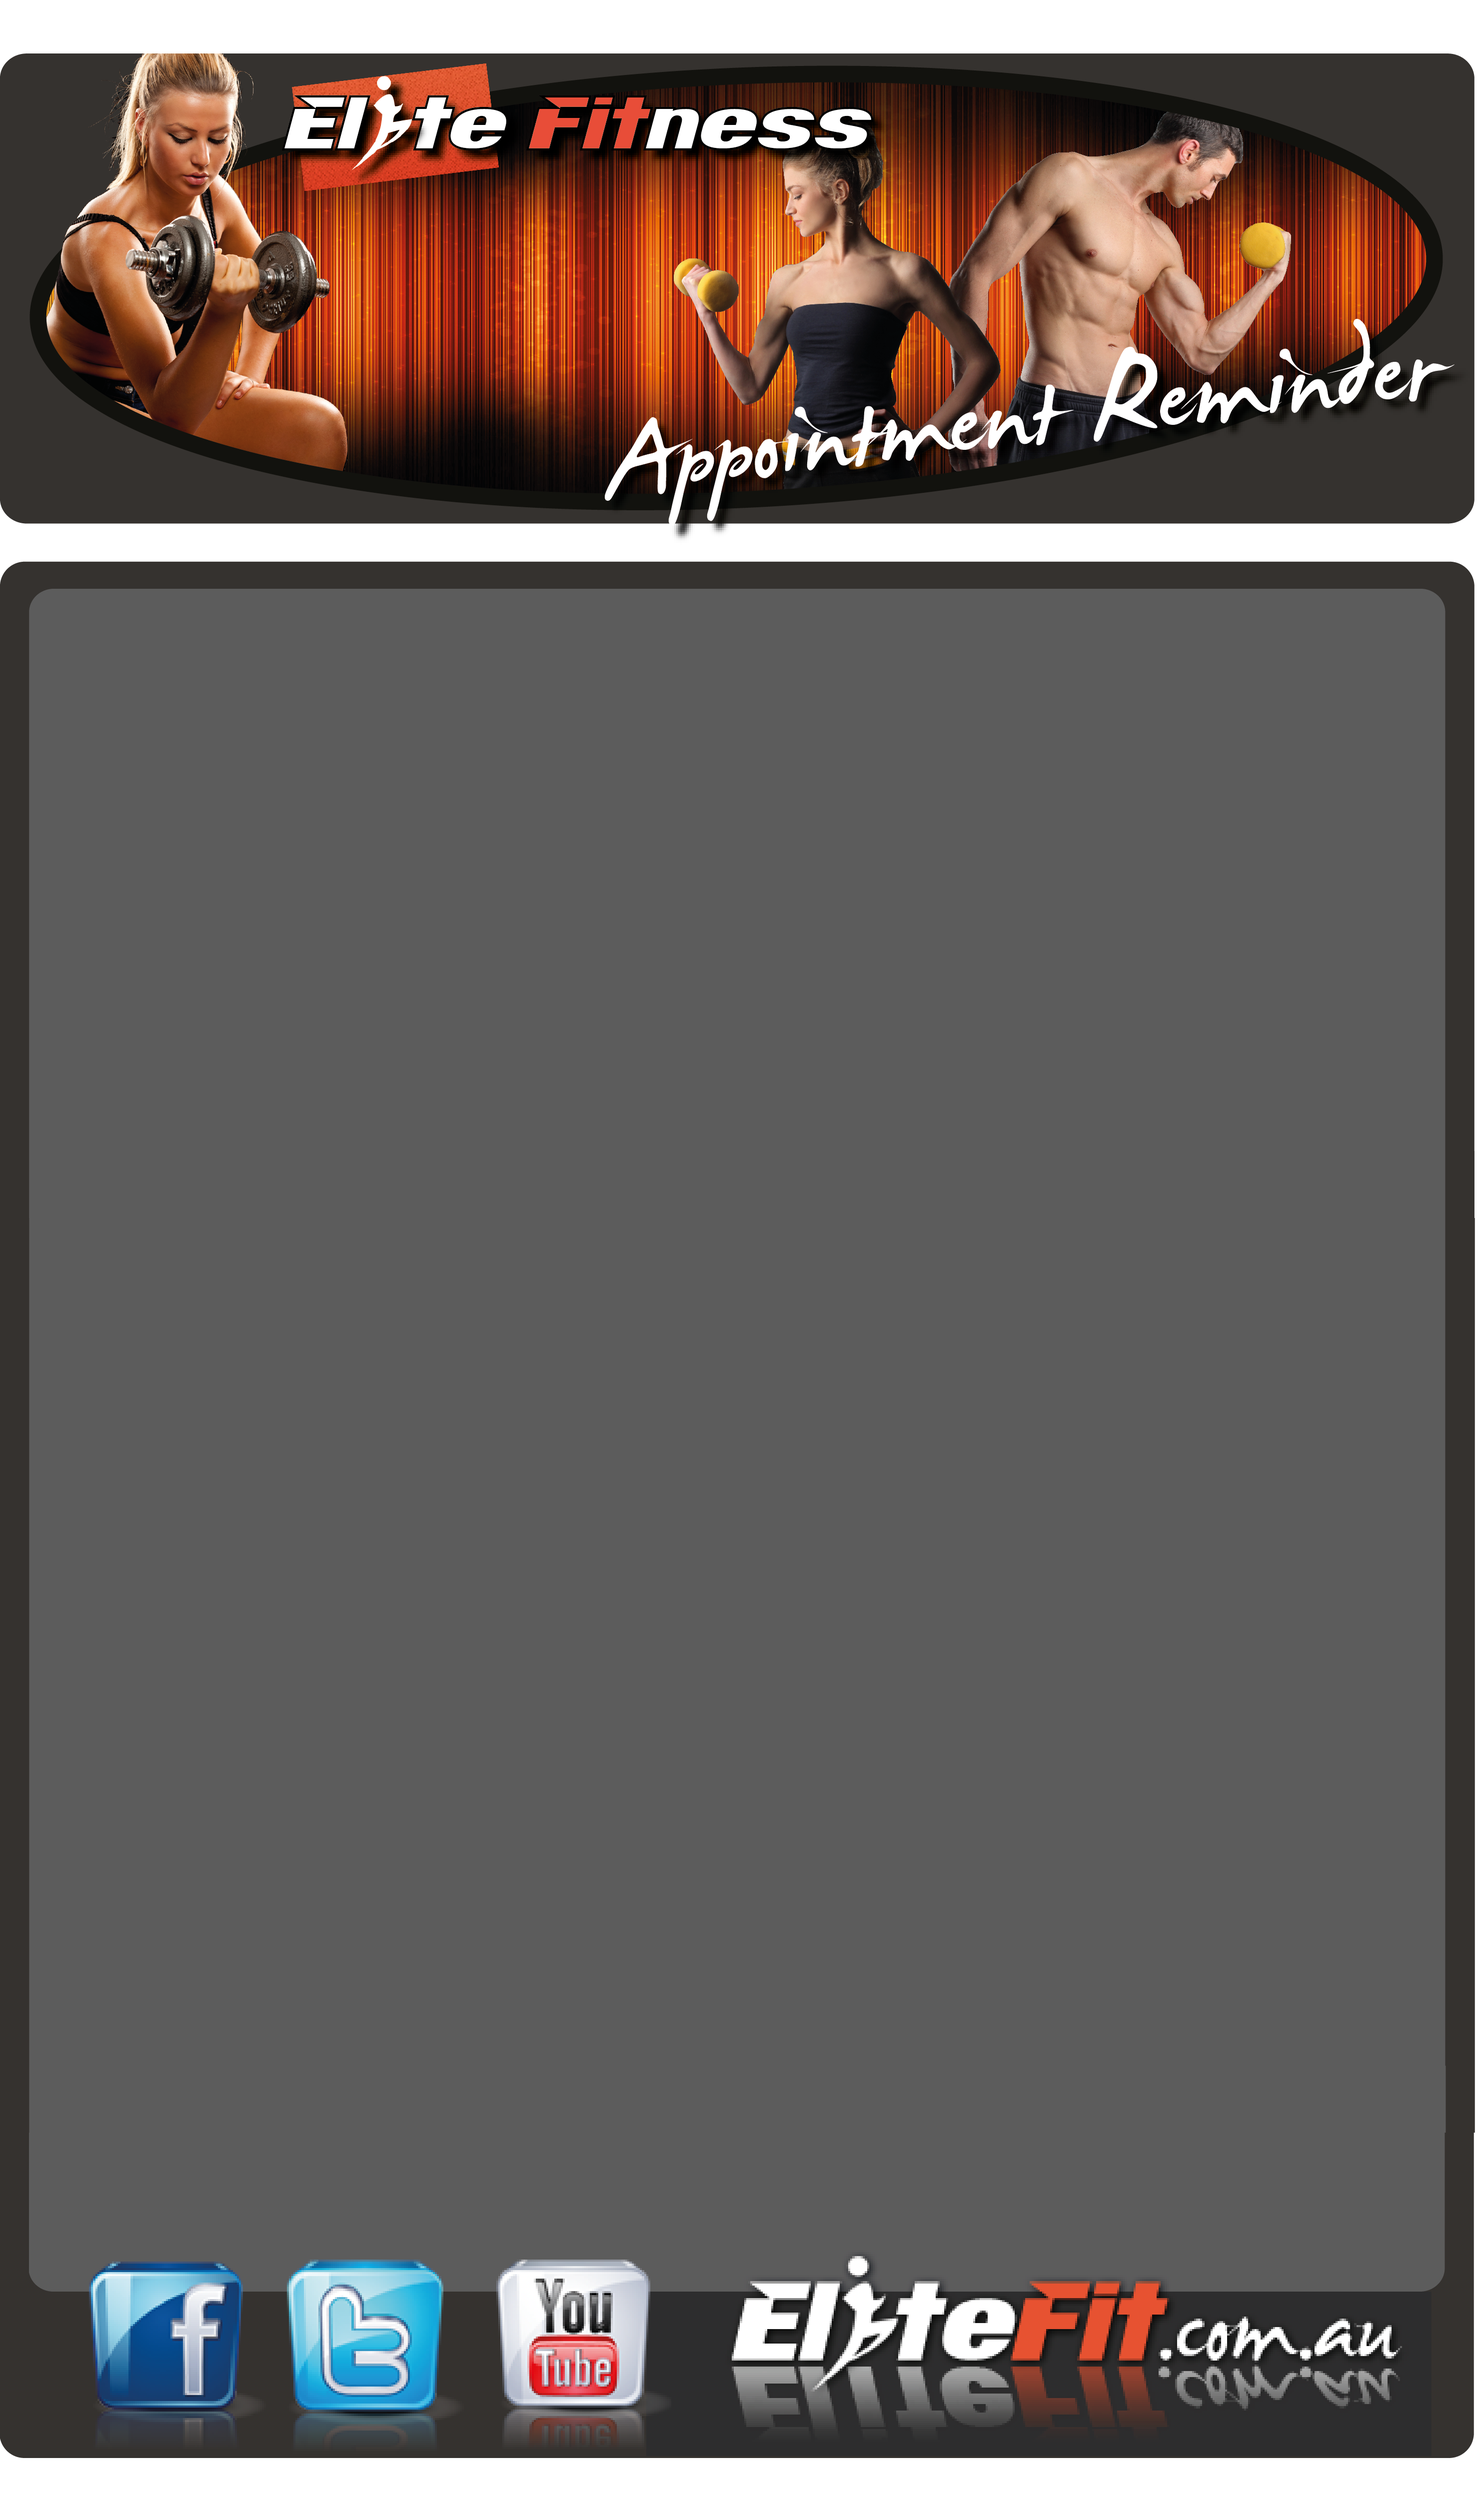
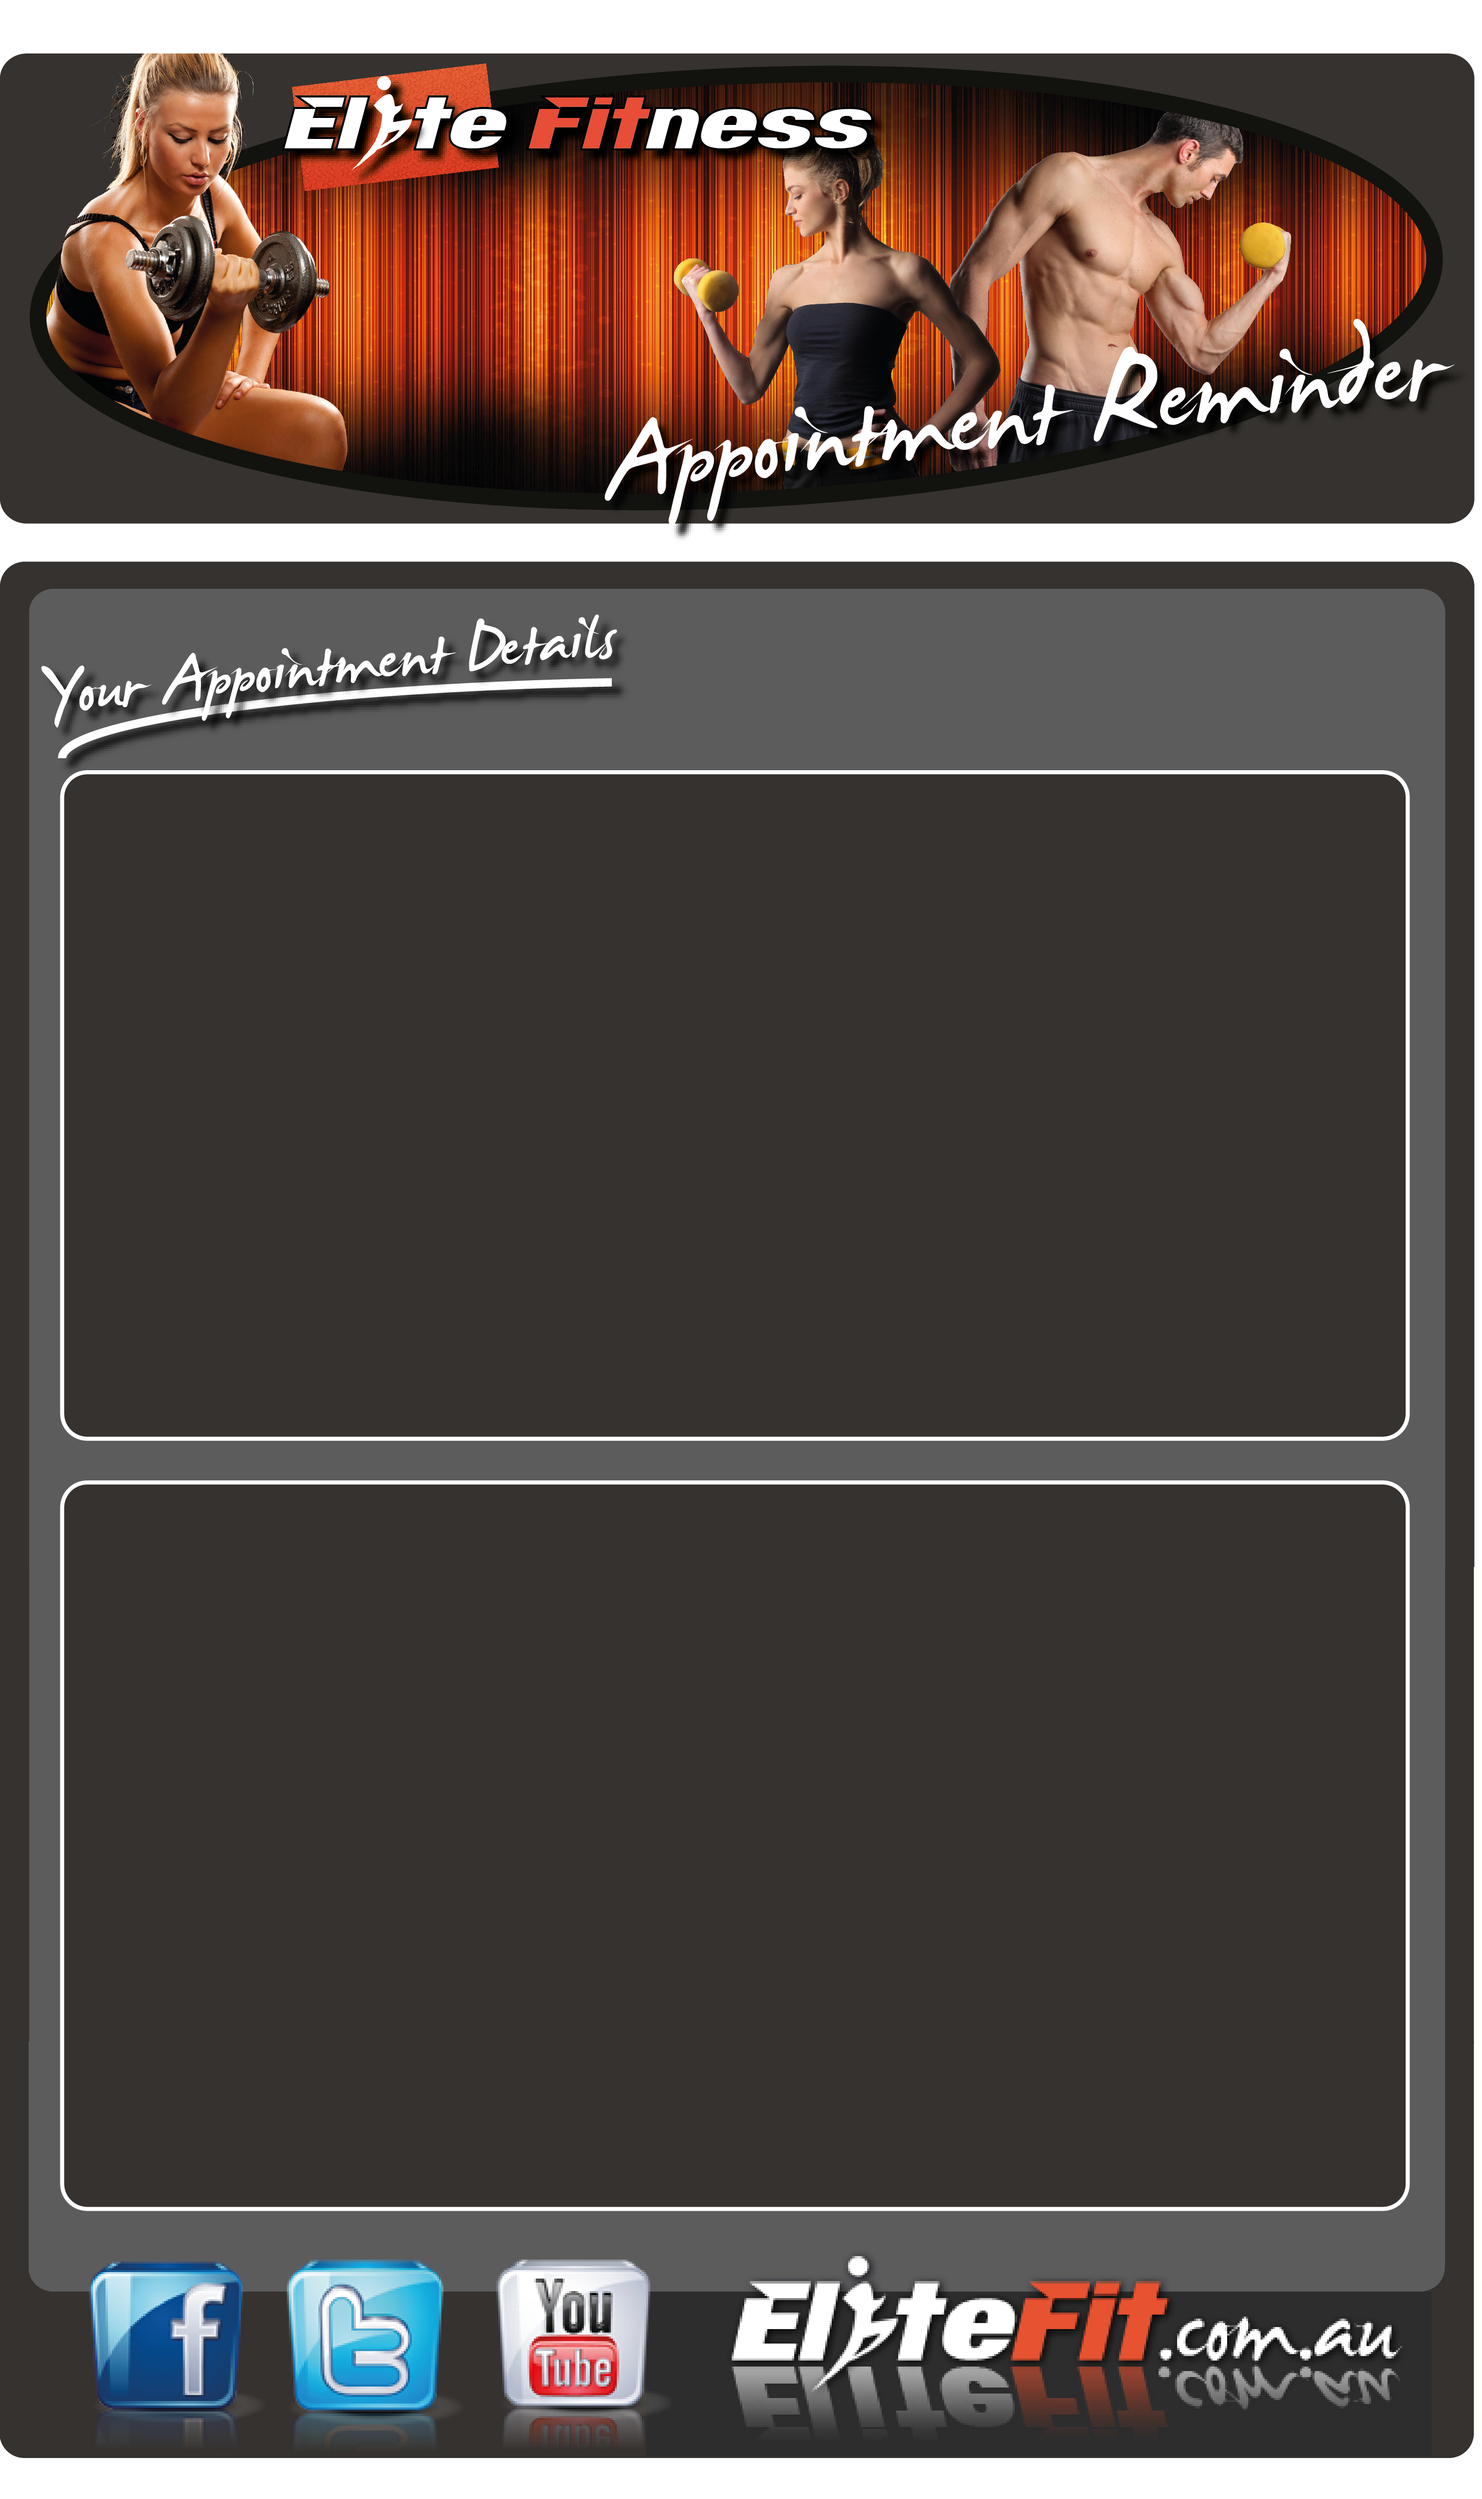
event email template adjusted,  direct open edit form done

diff --git a/components/com_multicalendar/DC_MultiViewCal/src/Plugins/jquery.calendar.js b/components/com_multicalendar/DC_MultiViewCal/src/Plugins/jquery.calendar.js
@@ -2435,9 +2435,12 @@
                     }
                 }
             }
+            
             else {
                 alert(i18n.dcmvcal.data_format_error);
             }
+            $("#bbit-cs-buddle").dialog("destroy");
+            option.EditCmdhandler.call('', data);
             return false;
         }
 
@@ -2715,6 +2718,11 @@
                 $("#bbit-cal-buddle").dialog( "close" );
                 realsedragevent();
             });
+            $("#bbit-cal-buddle").dialog( "close" );
+            if (option.EditCmdhandler && $.isFunction(option.EditCmdhandler)) {
+                  option.EditCmdhandler.call(this, ['0', $("#bbit-cal-what").val(), $("#bbit-cal-start").val(), $("#bbit-cal-end").val(), $("#bbit-cal-allday").val()]);
+            }                        
+                realsedragevent();
             return false;
         }
         //format datestring to Date Type

diff --git a/components/com_multicalendar/DC_MultiViewCal/src/Plugins/multiview.js b/components/com_multicalendar/DC_MultiViewCal/src/Plugins/multiview.js
@@ -336,7 +336,7 @@ function initMultiViewCal(container,calendarId,config)
                     function showEditEvent(url)
                     {   
                         var width = 620;
-                        var height = 630;
+                        var height = 720;
                         try {
                         $jc("#editEvent").remove();
                         var content = '<iframe id="dailog_iframe_1305934814858" frameborder="0" style="border:none;width:600px;height:'+(height-50)+'px" src="'+url+'" border="0" scrolling="no">';
@@ -395,14 +395,7 @@ function initMultiViewCal(container,calendarId,config)
                         }
                     });
                     } catch(e){};
-                    
-            
-            
-            
-            
-            
-            
-            
+
             
            })($jc); 
 

diff --git a/components/com_multicalendar/DC_MultiViewCal/css/main.css b/components/com_multicalendar/DC_MultiViewCal/css/main.css
@@ -360,7 +360,7 @@
 }
 
 #exercise_table_wrapper{
-    height: 186px;
+    height: 263px;
     margin-top: 10px;
     overflow-y: auto;
 }

diff --git a/components/com_multicalendar/views/pdf/tmpl/email_reminder.php b/components/com_multicalendar/views/pdf/tmpl/email_reminder.php
@@ -26,8 +26,7 @@
               ">
            
            
-            <div style="background-color: #35322F;border: 2px solid #FFFFFF; border-radius: 10px 10px 10px 10px;  color: #FFFFFF;
-                 margin-left: 40px; margin-top: 490px; padding: 10px; width: 600px;">
+            <div style="margin-left: 40px; margin-top: 490px; padding: 10px; width: 600px;">
                          
                  <table style="width: 100%;"  border="0">
                     <tbody>
@@ -150,9 +149,21 @@
                 
                 <span></span>
             </div>
-            <div style="background-color: #35322F;border: 2px solid #FFFFFF; border-radius: 10px 10px 10px 10px;  color: #FFFFFF;
-                 margin-left: 40px; margin-top: 30px; padding: 10px; width: 600px;">
-                
+            <div style="font-size: 14px;  color: #FFFFFF;  margin-left: 40px; margin-top: 30px;font-size: 14px; padding: 10px; width: 792px;">
+                (please arrive at least 5 mins before your scheduled appointment time. If you are training or doing anything physical in your appointment, please be sure to do a warm-up by walking, jogging or rowing for 5-10 mins - unless otherwise instructed not to do so)
+            </div>
+            
+            <div style="  color: #FFFFFF;  margin-left: 40px; margin-top: 30px;font-size: 14px; padding: 10px; width: 792px;">
+                <p style="color:#D14F16;">CANCELLATION POLICY</p>
+                <p>24 hours notice is required to reschedule or cancel any training session or appointment.</p>
+                <p>If less than 24 hours notice is given, FULL FEES will apply for that appointment, unless...</p>
+                <p> - your appointment time can be filled by another client.<br /> - your appointment is able to be rescheduled to another time on the same day (availability depending).</p>
+                <p>If you are late to your appointment, your appointment will still end at the scheduled time.<br /><br />If you do no show up to your appointment or cancel last minute, FULL FEES apply.</p>
+                <p>If you are training early to mid-morning and you need to cancel or reschedule your appointment, you must do so BEFORE 3pm the preceding day to allow time to fill your appointment. Failure to do so will incur FULL SESSION FEES if you cancel too late!</p>
+                <p style="color:#D14F16;">3 ‘STRIKES’ POLICY</p>
+                <p>If you break any of the before mentioned policies, one ‘Strike' will be recorded against you.</p>
+                <p>Each 'Strike' is cumulative and will remain on your record for a period of 1 month.</p>
+                <p>Gaining a 3rd ’Strike' will result in your training being suspended for a length of time determined by your trainer. If this continues, you will no longer be able to continue training with Elite Fitness.</p>
             </div>
         </div>
         

diff --git a/administrator/components/com_multicalendar/installation_package/component-installer/site/DC_MultiViewCal/php/bottom_form.inc.php b/administrator/components/com_multicalendar/installation_package/component-installer/site/DC_MultiViewCal/php/bottom_form.inc.php
@@ -114,49 +114,6 @@
       </div>
     <a id="bbit-cs-editLink" href=""></a>  
     
-    
-    
-    <div class="entry-form">
-    <form name="exercise_fields" id="exercise_fields"> 
-        <table width="100%" border="0" cellpadding="4" cellspacing="0">
-            <tr>
-                <td colspan="2" align="right"><img id="close_add_exercise_box" class="hideimage " src="<?php echo JUri::base() ?>administrator/components/com_fitness/assets/images/close.png" alt="close" title="close"></td>
-            </tr>
-            <tr>
-                <td>Title</td>
-                <td><input  maxlength="255" type="text" name="title"></td>
-            </tr>
-            <tr>
-                <td>Speed</td>
-                <td><input maxlength="10" type="text" name="speed"></td>
-            </tr>
-            <tr>
-                <td>Weight</td>
-                <td><input maxlength="10" type="text" name="weight"></td>
-            </tr>
-            <tr>
-                <td>Reps</td>
-                <td><input maxlength="255" type="text" name="reps"></td>
-            </tr>
-            <tr>
-                <td>Time</td>
-                <td><input maxlength="20" type="text" name="time"></td>
-            </tr>
-            <tr>
-                <td>Sets</td>
-                <td><input maxlength="255" type="text" name="sets"></td>
-            </tr>
-            <tr>
-                <td>Rest</td>
-                <td><input maxlength="255" type="text" name="rest"></td>
-            </tr>
-            <tr>
-                <td align="right"></td>
-                <td><input type="button" value="Save" id="save_exercise"><input type="button" value="Cancel" id="cancel_exercise"></td>
-            </tr>
-         </table>
-        <input  type="hidden" name="event_id" value="<?php echo $event->id;?>">
-       </form>
-    </div>
+   
   </body>  
 </html>  

diff --git a/components/com_multicalendar/DC_MultiViewCal/php/exercises.inc.php b/components/com_multicalendar/DC_MultiViewCal/php/exercises.inc.php
@@ -206,7 +206,7 @@ $(document).ready(function() {
                 <thead
                     <tr>
                         <th width="4%"><a title="Drag, move and drop the row to change the ordering." href="javascript:void(0)" id="drag_exercise"></a></th>
-                        <th width="40%" title="Execise/Description/Notes"><a title="Add new exercise" href="javascript:void(0)" id="add_exercise"></a>Execise/Notes</th>
+                        <th width="40%" title="Execise/Description/Notes"><a title="Add new exercise" href="javascript:void(0)" id="add_exercise"></a><div style="padding-top: 7px;">Execise/Notes</div></th>
                         <th width="10%">Speed</th>
                         <th width="10%">Weight</th>
                         <th width="10%">Reps</th>
